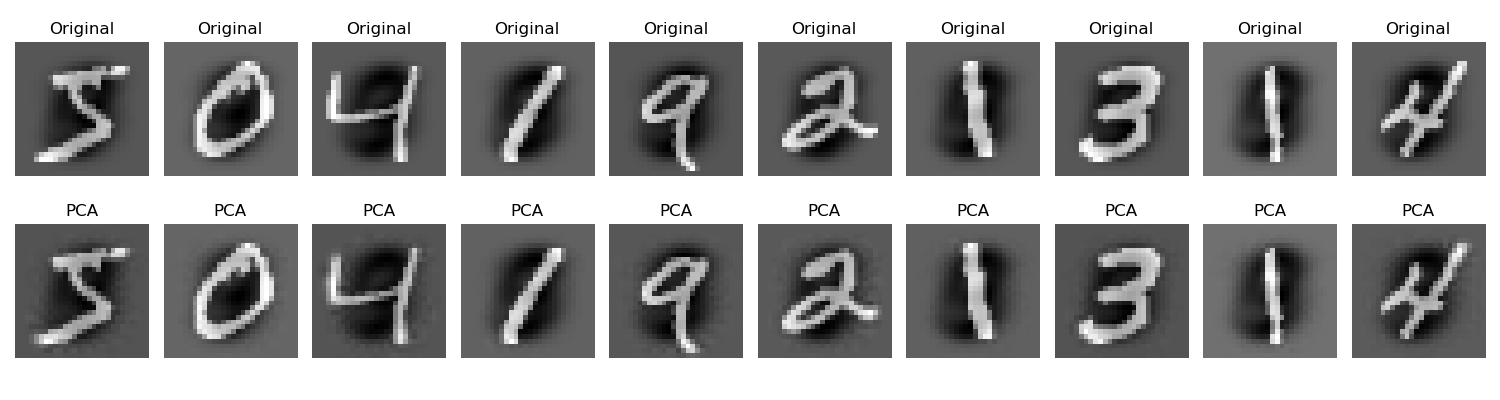
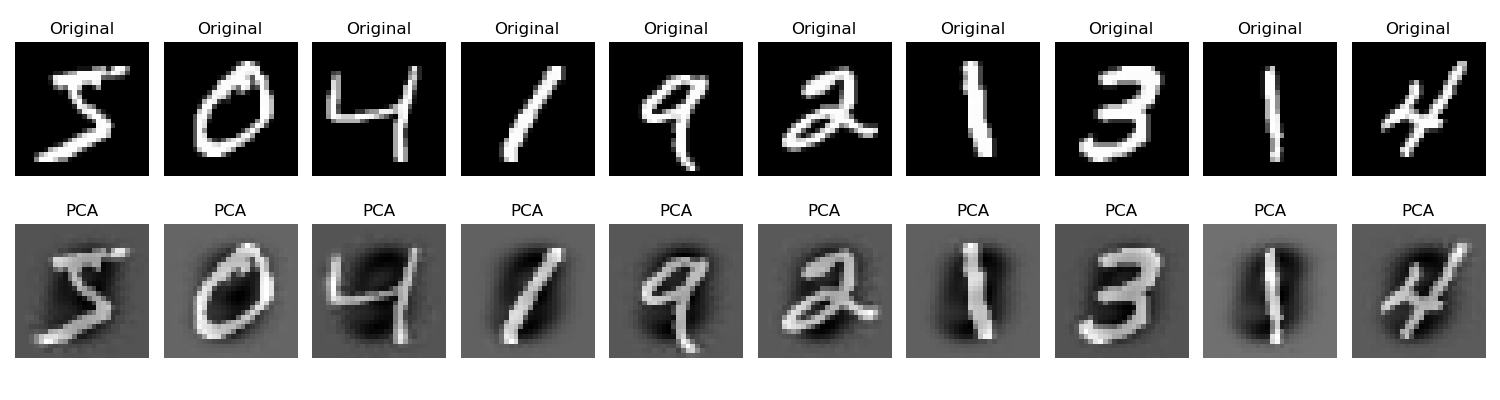
update pca

Changed region(s): [[0.0, 0.09, 1.0, 0.45]]

diff --git a/PCA/mnist_sdv.py b/PCA/mnist_sdv.py
@@ -44,7 +44,7 @@ X_reconstruido = X_reducido @ Vt[:k]
 # Graficar las primeras 10 imágenes originales y sus proyecciones
 fig, axs = plt.subplots(2, 10, figsize=(15, 4))
 for i in range(10):
-    axs[0, i].imshow(X_centered[i].reshape(28, 28), cmap='gray')
+    axs[0, i].imshow(X[i].reshape(28, 28), cmap='gray')
     axs[0, i].axis('off')
     axs[0, i].set_title("Original")
 
@@ -54,3 +54,74 @@ for i in range(10):
 
 plt.tight_layout()
 plt.savefig("mnist_pca32.png")
+
+
+
+
+
+
+
+
+
+
+
+# Parte d)
+
+def k_means_fit(X, Z0, NITERMAX):
+    centroids = Z0.copy()
+    objective_history = []
+
+    for _ in range(NITERMAX):
+        data = X[:, np.newaxis]
+        distances = np.linalg.norm(data - centroids, axis=2)  # ← cálculo de distancias
+        labels = np.argmin(distances, axis=1)                 # ← asignación de clústeres
+
+        for k in range(centroids.shape[0]):
+            if np.any(labels == k):
+                centroids[k] = X[labels == k].mean(axis=0)    # ← actualización de centroides
+
+        mu_z = centroids[labels]
+        current_objective = np.mean((X - mu_z) ** 2)          # ← evaluación de función objetivo
+        objective_history.append(current_objective)
+
+    return centroids, labels, objective_history
+
+def plot_representatives_and_samples(centroids, data, labels, n_samples=1):
+    """
+    Muestra cada centroide como imagen, junto con un ejemplo del conjunto de datos que fue asignado a él.
+    """
+    plt.figure(figsize=(14, 8))
+    for i, centroid in enumerate(centroids):
+        plt.subplot(4, 10, 2*i + 1)
+        plt.imshow(centroid.reshape(28, 28), cmap='gray')
+        plt.title(f'Centroide {i}', fontsize=8)
+        plt.axis('off')
+
+        assigned_points = data[labels == i]
+        if len(assigned_points) > 0:
+            plt.subplot(4, 10, 2*i + 2)
+            plt.imshow(assigned_points[0].reshape(28, 28), cmap='gray')
+            plt.title('Ejemplo', fontsize=8)
+            plt.axis('off')
+
+    plt.tight_layout()
+    plt.savefig("mnist_centroids_and_examples.png")
+
+
+
+# Semilla reproducible
+current_seed = 0
+np.random.seed(current_seed)
+k = 20
+Z0 = X_reconstruido[np.random.choice(X.shape[0], k, replace=False)]
+
+# Ejecutar algoritmo
+max_iter = 6
+results = {}
+
+# Ejecutar k-means con 15 iteraciones
+centroids, labels, objective_history = k_means_fit(X_reconstruido, Z0, 15)
+
+
+# Gráfico de centroides y ejemplos
+plot_representatives_and_samples(centroids, X_reconstruido, labels)
